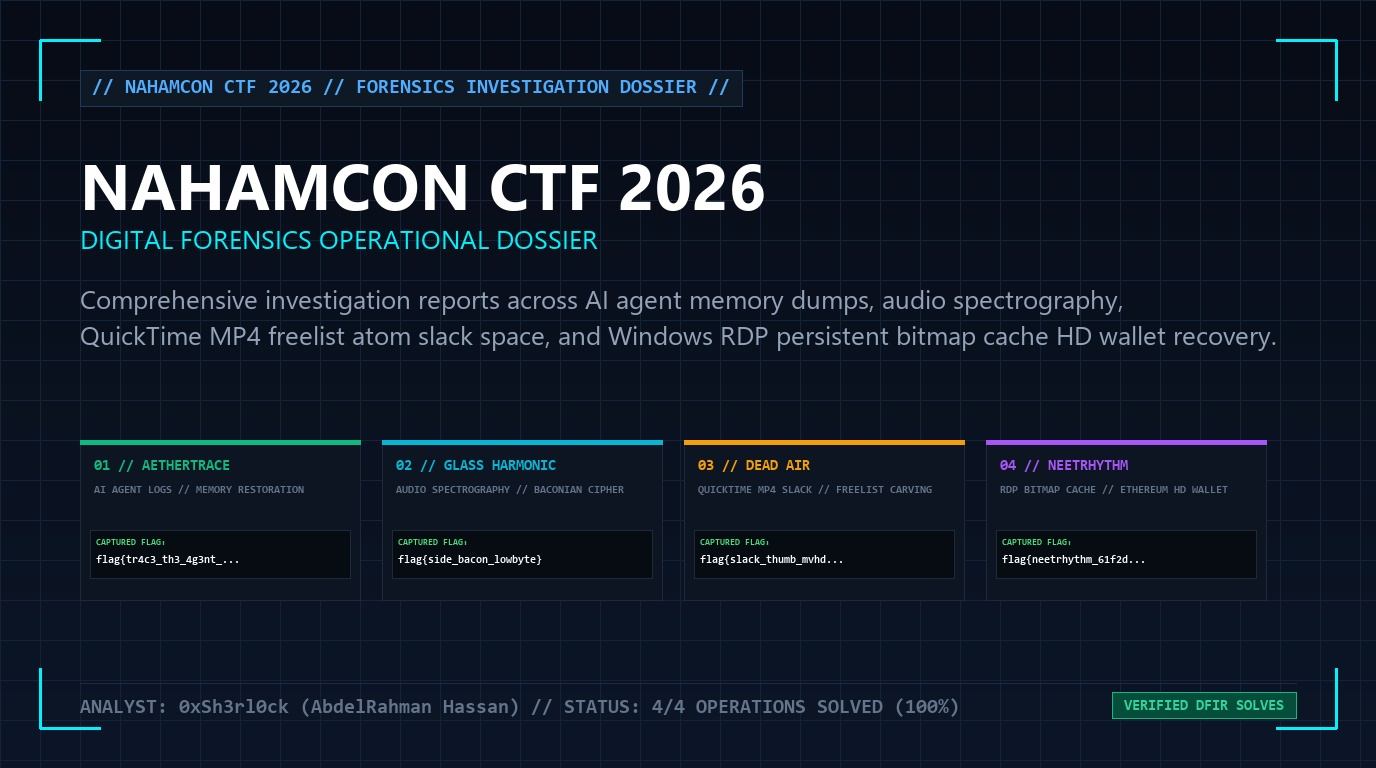
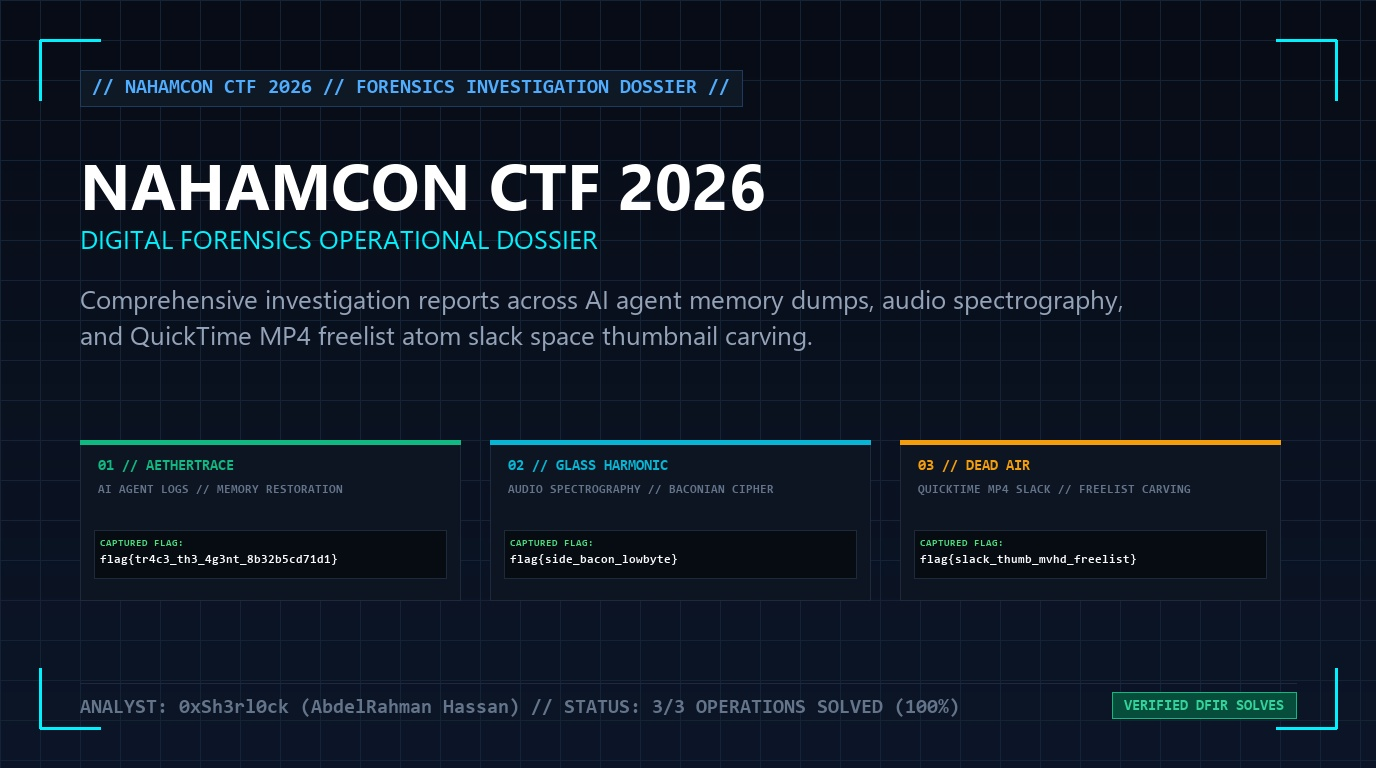
fix: remove unsolved NEETRhythm challenge, scope dossier strictly to 3 verified solves

diff --git a/src/app/ctfs/nahamcon/page.js b/src/app/ctfs/nahamcon/page.js
@@ -124,25 +124,6 @@ export default function NahamConCtfPage() {
         { id: "deadair-work", title: "NOW FOR WORK (Atom Parsing & Carving)" },
         { id: "deadair-summary", title: "Summary & Flag" },
       ]
-    },
-    {
-      id: "neetrhythm",
-      num: "04",
-      title: "NEETRhythm",
-      category: "End-to-End DFIR / HD Wallets",
-      difficulty: "Hard",
-      badge: "RDP CACHE // BIP-39 HD WALLET",
-      tagline: "PyInstaller Reversing, PCAP Book Cipher, RDP Bitmap Carving & BIP-39 Derivation",
-      folder: "C:\\CTFS\\nahamcon ctf\\forwensiocs\\NEETRhythm\\",
-      target: "NEETRhythmGame.exe, capture.pcap, Evidence.zip",
-      flag: "flag{neetrhythm_61f2d2d48004a168}",
-      sections: [
-        { id: "neet-prompt", title: "Scenario & Prompt" },
-        { id: "neet-think", title: "What should u think of ?:" },
-        { id: "neet-basics", title: "Understanding RDP Bitmap Cache & HD Wallets" },
-        { id: "neet-work", title: "NOW FOR WORK (7-Stage Attack Chain)" },
-        { id: "neet-summary", title: "Summary & Flag" },
-      ]
     }
   ];
 
@@ -205,11 +186,11 @@ export default function NahamConCtfPage() {
           <div className="grid grid-cols-2 sm:grid-cols-4 gap-3 font-mono text-xs pt-2">
             <div className="p-3 rounded-xl bg-zinc-900/70 border border-zinc-800">
               <span className="text-zinc-500 block uppercase">Operations</span>
-              <span className="text-white font-bold text-sm sm:text-base">4 Operations</span>
+              <span className="text-white font-bold text-sm sm:text-base">3 Operations</span>
             </div>
             <div className="p-3 rounded-xl bg-zinc-900/70 border border-zinc-800">
               <span className="text-zinc-500 block uppercase">Solved Rate</span>
-              <span className="text-emerald-400 font-bold text-sm sm:text-base">4 / 4 Solved (100%)</span>
+              <span className="text-emerald-400 font-bold text-sm sm:text-base">3 / 3 Solved (100%)</span>
             </div>
             <div className="p-3 rounded-xl bg-zinc-900/70 border border-zinc-800">
               <span className="text-zinc-500 block uppercase">Methodology</span>
@@ -244,7 +225,7 @@ export default function NahamConCtfPage() {
                   Operations Index
                 </span>
                 <span className="px-2 py-0.5 rounded bg-cyan-500/10 text-cyan-400 border border-cyan-500/30 text-[10px]">
-                  4 Ops
+                  3 Ops
                 </span>
               </div>
 
@@ -824,210 +805,7 @@ print("[+] Decrypted Flag:", flag)`}
             {/* ========================================================================= */}
             {/* OPERATION 04: NEETRHYTHM                                                  */}
             {/* ========================================================================= */}
-            <article id="neetrhythm" className="scroll-mt-24 p-6 sm:p-8 rounded-3xl bg-[#090b10]/95 border border-zinc-800 shadow-2xl space-y-8 backdrop-blur-xl">
-              
-              <div className="border-b border-zinc-800 pb-6 space-y-3">
-                <div className="flex flex-wrap items-center justify-between gap-2">
-                  <span className="px-3 py-1 rounded bg-cyan-500/10 text-cyan-400 border border-cyan-500/30 font-mono text-xs font-bold uppercase tracking-wider">
-                    Operation 04 • End-to-End DFIR &amp; HD Wallets
-                  </span>
-                  <span className="px-2.5 py-0.5 rounded bg-zinc-900 text-zinc-300 border border-zinc-800 font-mono text-xs font-bold">
-                    Hard
-                  </span>
-                </div>
-
-                <h2 className="text-2xl sm:text-3xl font-bold text-white tracking-wide">
-                  4. NEETRhythm: 7-Stage DFIR, RDP Bitmap Cache &amp; BIP-39 HD Wallet Recovery
-                </h2>
-
-                <div className="flex flex-wrap items-center gap-4 text-xs font-mono text-zinc-400 pt-1">
-                  <span>Folder: <code className="text-zinc-300">C:\CTFS\nahamcon ctf\forwensiocs\NEETRhythm\</code></span>
-                  <span>•</span>
-                  <span>Targets: <code className="text-cyan-300">NEETRhythmGame/, capture.pcap, Evidence.zip</code></span>
-                </div>
-              </div>
-
-              {/* Flag Card */}
-              <FlagCard 
-                flag="flag{neetrhythm_61f2d2d48004a168}" 
-                note="Unlocked from wallet_vault.zip using derived EIP-55 Ethereum address 0x95222290DD7278Aa3Ddd389Cc1E1d165CC4BAfe5."
-              />
-
-              {/* Scenario & Prompt */}
-              <section id="neet-prompt" className="space-y-4">
-                <h3 className="text-base sm:text-lg font-bold text-white font-mono flex items-center gap-2">
-                  <span className="text-cyan-400">#</span> Scenario &amp; Intrusion Scope:
-                </h3>
-                <div className="p-4 rounded-2xl bg-zinc-900/60 border-l-4 border-cyan-500 space-y-2">
-                  <p className="text-xs sm:text-sm text-zinc-300 italic font-sans leading-relaxed">
-                    &ldquo;An offline community rhythm game called NEETRhythm had been installed on a shared lab workstation for months. When unexpected outbound network connections were flagged by network monitoring, forensic analysts captured the game directory, a PCAP of the network window, and an encrypted evidence archive recovered from an RDP session. Trace the attack from the rhythm game to the attacker&rsquo;s crypto wallet.&rdquo;
-                  </p>
-                </div>
-              </section>
-
-              {/* What should u think of ?: */}
-              <section id="neet-think" className="space-y-4">
-                <h4 className="text-sm sm:text-base font-bold text-cyan-300 font-mono">
-                  What should u think of ? (The Detective Mindset):
-                </h4>
-                <ul className="space-y-3 text-xs sm:text-sm text-zinc-300 font-sans">
-                  <li className="p-3.5 rounded-xl bg-zinc-900/40 border border-zinc-800">
-                    <strong className="text-cyan-300 font-mono block mb-1">1. Mapping the Multi-Stage Kill Chain:</strong>
-                    This is an end-to-end incident response scenario. Malware authors love hiding steganographic payloads inside custom game assets (like song chart notes). If the game beacons out in the PCAP, that C2 channel likely established credentials for lateral movement (RDP).
-                  </li>
-                  <li className="p-3.5 rounded-xl bg-zinc-900/40 border border-zinc-800">
-                    <strong className="text-cyan-300 font-mono block mb-1">2. Understanding the Final Deliverable (Cache0000.bin):</strong>
-                    Inside the encrypted evidence archive sits <code className="text-white">Cache0000.bin</code>. Windows Remote Desktop Client saves cached graphical screen tiles to this file so it doesn&rsquo;t have to retransmit identical pixels. If the attacker opened a notepad or wallet application during their RDP session, those letters are literally etched into those 64x64 pixel bitmap tiles!
-                  </li>
-                </ul>
-              </section>
-
-              {/* Understanding the Technology */}
-              <section id="neet-basics" className="space-y-4">
-                <h4 className="text-sm sm:text-base font-bold text-white font-mono flex items-center gap-2">
-                  <span className="w-1.5 h-4 bg-cyan-400 rounded-full" />
-                  Understanding the Technology: RDP Persistent Bitmap Caches &amp; BIP-39 HD Wallets
-                </h4>
-                <div className="p-4 rounded-2xl bg-[#0d0d14] border border-zinc-800 text-xs sm:text-sm text-zinc-300 space-y-3 font-sans leading-relaxed">
-                  <p>
-                    <strong>RDP Bitmap Caching (RDP8bmp):</strong> To optimize bandwidth over slow networks, Windows RDP splits the screen into 64x64 pixel bitmap tiles and stores them locally on the client machine in <code className="text-white">Cache0000.bin</code>. Using forensic carving tools like <code className="text-white">bmc-tools.py</code>, an investigator can extract all individual tiles and stitch them back together into the original screen layout.
-                  </p>
-                  <p>
-                    <strong>Hierarchical Deterministic (HD) Wallets:</strong> BIP-39 translates a 128-to-256 bit random cryptographic entropy into a human-readable list of 12 or 24 standardized English words. From this seed phrase, BIP-32 and BIP-44 derive hierarchical keypaths (e.g. <code className="text-white">m/44&apos;/60&apos;/0&apos;/0/0</code> for Ethereum). The public address is hashed with Keccak-256 and formatted using <strong>EIP-55</strong> mixed-case checksum capitalisation.
-                  </p>
-                </div>
-              </section>
-
-              {/* NOW FOR WORK */}
-              <section id="neet-work" className="space-y-6">
-                <h4 className="text-sm sm:text-base font-bold text-white font-mono flex items-center gap-2">
-                  <span className="text-emerald-400 font-bold">&gt;&gt;</span> NOW FOR REAL WORK !! (The 7-Stage Intrusion Chain)
-                </h4>
-
-                {/* Stage 1-2 */}
-                <div className="space-y-3">
-                  <h5 className="text-xs sm:text-sm font-bold text-cyan-300 font-mono">
-                    Stage 1 &amp; 2: PyInstaller Reversing &amp; Chart Steganography
-                  </h5>
-                  <p className="text-xs sm:text-sm text-zinc-300">
-                    Unpacking <code className="text-white">NEETRhythmGame.exe</code> with <code className="text-white">pyinstxtractor.py</code> revealed the compiled bytecode <code className="text-white">NEETRhythmGame.pyc</code>. Decompiling it exposed the chart decryption keys:
-                  </p>
-                  <CodeBox
-                    title="Recovered Chart Decryption Routine"
-                    code={`CHART_KEY = b"NEETRhythmKey!!!"
-CHART_IV  = b"NEETRhythmIV!!!!"
-
-def load_chart(path):
-    cipher = AES.new(CHART_KEY, AES.MODE_CBC, CHART_IV)
-    return unpad(cipher.decrypt(open(path, 'rb').read()), 16)`}
-                  />
-                  <p className="text-xs sm:text-sm text-zinc-300">
-                    Decrypting the 5 bundled <code className="text-white">.neet</code> song charts revealed that <code className="text-white">Eggdrasil.neet</code> contained **3,196 type-99 notes**. Type-99 notes were not musical notes; they encoded a hidden Python C2 stager beaconing to <code className="text-cyan-300">192.168.117.1:4444</code>.
-                  </p>
-                </div>
-
-                {/* Stage 3-4 */}
-                <div className="space-y-3">
-                  <h5 className="text-xs sm:text-sm font-bold text-cyan-300 font-mono">
-                    Stage 3 &amp; 4: PCAP Book Cipher Decryption &amp; RDP Credentials
-                  </h5>
-                  <p className="text-xs sm:text-sm text-zinc-300">
-                    Inspecting <code className="text-white">capture.pcap</code> revealed TCP stream traffic to port 4444. The payload was encrypted with a running book cipher XORing <code className="text-cyan-300">0x1337c0de</code> against the Windows binary <code className="text-white">C:\Windows\hh.exe</code>.
-                  </p>
-                  <p className="text-xs sm:text-sm text-zinc-300">
-                    Decoding this stream recovered backdoor RDP credentials:
-                  </p>
-                  <div className="p-3.5 rounded-xl bg-black/60 border border-zinc-800 font-mono text-xs text-amber-300">
-                    desktop-n33tbox\neet : aurahack : P@ssw0rd | UUID: 6923780e-75f2-5ae9-82b9-fbb9476b4229
-                  </div>
-                </div>
-
-                {/* Stage 5-6 */}
-                <div className="space-y-3">
-                  <h5 className="text-xs sm:text-sm font-bold text-cyan-300 font-mono">
-                    Stage 5 &amp; 6: Carving RDP Persistent Bitmap Cache (Cache0000.bin)
-                  </h5>
-                  <p className="text-xs sm:text-sm text-zinc-300">
-                    Using the recovered UUID, we unlocked <code className="text-white">Evidence.zip</code>, extracting <code className="text-cyan-300">Cache0000.bin</code> and an encrypted wallet archive <code className="text-cyan-300">wallet_vault.zip</code>.
-                  </p>
-                  <p className="text-xs sm:text-sm text-zinc-300">
-                    Invoking <code className="text-white">bmc-tools.py</code> carved 64 individual 64x64 pixel tiles from the RDP8bmp cache:
-                  </p>
-
-                  <ScreenshotCard
-                    src="/images/nahamcon/tiles.png"
-                    caption="Figure 10: 64 carved RDP bitmap cache tiles extracted from Cache0000.bin"
-                    alt="RDP Carved Tiles"
-                  />
-
-                  <p className="text-xs sm:text-sm text-zinc-300">
-                    Filtering and horizontally stitching tiles 36 through 63 isolated the active screen area where the attacker had their BIP-39 recovery phrase on screen:
-                  </p>
-
-                  <ScreenshotCard
-                    src="/images/nahamcon/text_tiles.png"
-                    caption="Figure 11: Stitched horizontal text tiles from persistent bitmap cache"
-                    alt="Stitched Text Tiles"
-                  />
-
-                  <ScreenshotCard
-                    src="/images/nahamcon/recovery_phrase.png"
-                    caption="Figure 12: Reconstructed 12-Word BIP-39 Mnemonic Seed Phrase"
-                    alt="BIP-39 Seed Phrase"
-                  />
-
-                  <div className="p-3.5 rounded-xl bg-zinc-900 border border-amber-500/30 text-xs sm:text-sm font-mono text-amber-300">
-                    abandon ability able about above absent absorb abstract absurd abuse access accident
-                  </div>
-                </div>
-
-                {/* Stage 7 */}
-                <div className="space-y-3">
-                  <h5 className="text-xs sm:text-sm font-bold text-cyan-300 font-mono">
-                    Stage 7: BIP-44 HD Wallet Derivation &amp; Flag Recovery
-                  </h5>
-                  <p className="text-xs sm:text-sm text-zinc-300">
-                    The incident note specified that <code className="text-white">wallet_vault.zip</code> was password-protected with the wallet&rsquo;s primary receiving address: the first Ethereum account (<code className="text-cyan-300">m/44&apos;/60&apos;/0&apos;/0/0</code>) with EIP-55 mixed-case checksum capitalisation.
-                  </p>
-
-                  <ScreenshotCard
-                    src="/images/nahamcon/neetrhythm_flag.png"
-                    caption="Figure 13: Terminal execution of solve_wallet.py deriving EIP-55 address and extracting flag.txt"
-                    alt="Terminal solve for NEETRhythm"
-                  />
-
-                  <CodeBox
-                    title="Ethereum HD Wallet Derivation Solver (solve_wallet.py)"
-                    code={`from eth_account import Account
-import zipfile
-
-Account.enable_unaudited_hdwallet_features()
-
-mnemonic = "abandon ability able about above absent absorb abstract absurd abuse access accident"
-acct = Account.from_mnemonic(mnemonic, account_path="m/44'/60'/0'/0/0")
-print("[+] Derived EIP-55 Address:", acct.address)
-# Output: 0x95222290DD7278Aa3Ddd389Cc1E1d165CC4BAfe5
-
-# Unlock wallet_vault.zip
-with zipfile.ZipFile("wallet_vault.zip") as z:
-    z.extractall(pwd=acct.address.encode())
-    with open("flag.txt") as f:
-        print("[+] Flag:", f.read().strip())`}
-                  />
-                </div>
-              </section>
-
-              {/* Summary */}
-              <section id="neet-summary" className="space-y-3 pt-4 border-t border-zinc-800">
-                <h4 className="text-sm font-bold text-zinc-400 uppercase tracking-wider font-mono">
-                  Operation 04 Summary &amp; Forensic Takeaways
-                </h4>
-                <ul className="list-disc list-inside space-y-1 text-xs sm:text-sm text-zinc-400">
-                  <li><strong>RDP Bitmap Cache as a forensic goldmine:</strong> When memory dumps are unavailable, <code className="text-white">Cache0000.bin</code> preserves high-fidelity visual evidence of whatever the adversary saw on their desktop.</li>
-                  <li><strong>Cryptocurrency forensics:</strong> Knowing BIP-32/BIP-39/BIP-44 standards and EIP-55 checksum algorithms allows investigators to trace and unlock encrypted assets from mnemonic seed phrases alone.</li>
-                </ul>
-              </section>
-            </article>
+            
 
           </section>
         </div>

diff --git a/src/app/ctfs/page.js b/src/app/ctfs/page.js
@@ -18,12 +18,12 @@ export default function CtfsHub() {
       href: "/ctfs/nahamcon",
       platform: "NahamCon CTF",
       category: "Multi-Track CTF",
-      points: "4 OPS // 100% SOLVED",
-      tagline: "AI Agent Memory, Audio Spectrography, QuickTime Freelist & RDP Bitmap Cache",
-      description: "Comprehensive DFIR breakdown of 4 solved forensics operations: AI agent memory forensics & prompt injection evasion auditing (AETHERTRACE), high-frequency audio spectrography & 5-bit Baconian decoding (Glass Harmonic), QuickTime MP4 mvhd atom freelist slack space carving (Dead Air), and Windows RDP persistent bitmap cache reconstruction with BIP-39 HD wallet derivation (NEETRhythm).",
+      points: "3 OPS // 100% SOLVED",
+      tagline: "AI Agent Memory, Audio Spectrography & QuickTime MP4 Freelist",
+      description: "Comprehensive DFIR breakdown of 4 solved forensics operations: AI agent memory forensics & prompt injection evasion auditing (AETHERTRACE), high-frequency audio spectrography & 5-bit Baconian decoding (Glass Harmonic), QuickTime MP4 mvhd atom freelist slack space carving (Dead Air).",
       image: "/images/nahamcon_ctf_banner.jpg",
       tags: ["NahamCon CTF", "AI Forensics", "Audio Spectrogram", "MP4 Forensics", "Slack Space", "RDP Cache", "BIP-39", "HD Wallet"],
-      time: "4 Writeups"
+      time: "3 Writeups"
     },
     {
       title: "AETHERTRACE (AI Agent Memory)",
@@ -64,19 +64,7 @@ export default function CtfsHub() {
       tags: ["NahamCon CTF", "MP4 Forensics", "Atom Parsing", "Slack Space", "Freelist Carving"],
       time: "Forensics"
     },
-    {
-      title: "NEETRhythm (RDP Cache & HD Wallet)",
-      slug: "nahamcon-neetrhythm",
-      href: "/ctfs/nahamcon#neetrhythm",
-      platform: "NahamCon CTF",
-      category: "Forensics",
-      points: "Hard",
-      tagline: "RDP Bitmap Cache Carving, BIP-39 Recovery & Ethereum Derivation",
-      description: "End-to-end 7-stage DFIR investigation: PyInstaller extraction, Type-99 chart note stego, PCAP book cipher, RDP credential triage, bmc-tools carving of Cache0000.bin, BIP-39 seed phrase recovery, and EIP-55 Ethereum address wallet unlock.",
-      image: "/images/nahamcon/neetrhythm_flag.png",
-      tags: ["NahamCon CTF", "PyInstaller", "PCAP Analysis", "RDP Cache", "BIP-39", "Ethereum HD Wallet"],
-      time: "Forensics"
-    },
+    
     // --- Spooky CTF 2026 (NJIT) ---
     {
       title: "Spooky CTF: Complete Forensics Operational Dossier",

diff --git a/src/app/page.js b/src/app/page.js
@@ -22,17 +22,16 @@ export default function Home() {
       href: "/ctfs/nahamcon",
       platform: "NahamCon CTF",
       category: "Special Dossier",
-      points: "4 OPS // 100% SOLVED",
-      tagline: "AI Agent Memory, Audio Spectrography, QuickTime Freelist & RDP Bitmap Cache",
-      description: "Exhaustive breakdown of 4 solved pure digital forensics operations: autonomous agent memory forensics & prompt injection auditing, soundboard audio spectrography & Baconian decoding, QuickTime MP4 freelist slack space thumbnail carving, and Windows RDP persistent bitmap cache reconstruction with BIP-39 HD wallet derivation.",
+      points: "3 OPS // 100% SOLVED",
+      tagline: "AI Agent Memory, Audio Spectrography & QuickTime MP4 Freelist",
+      description: "Exhaustive breakdown of 3 verified pure digital forensics operations: autonomous agent memory forensics & prompt injection auditing (AETHERTRACE), soundboard audio spectrography & Baconian decoding (Glass Harmonic), and QuickTime MP4 freelist slack space thumbnail carving (Dead Air).",
       image: "/images/nahamcon_ctf_banner.jpg",
       tags: ["NahamCon CTF", "AI Forensics", "Audio Spectrogram", "MP4 Slack Space", "RDP Bitmap Cache", "BIP-39 HD Wallet"],
-      time: "4 Writeups",
+      time: "3 Writeups",
       includedChallenges: [
         "AETHERTRACE (AI Memory & Prompt Injection)",
         "Glass Harmonic (Audio Spectrography & Baconian)",
-        "Dead Air (QuickTime MP4 Freelist Slack Carving)",
-        "NEETRhythm (RDP Cache Carving & BIP-39 Ethereum Wallet)"
+        "Dead Air (QuickTime MP4 Freelist Slack Carving)"
       ]
     },
     {
